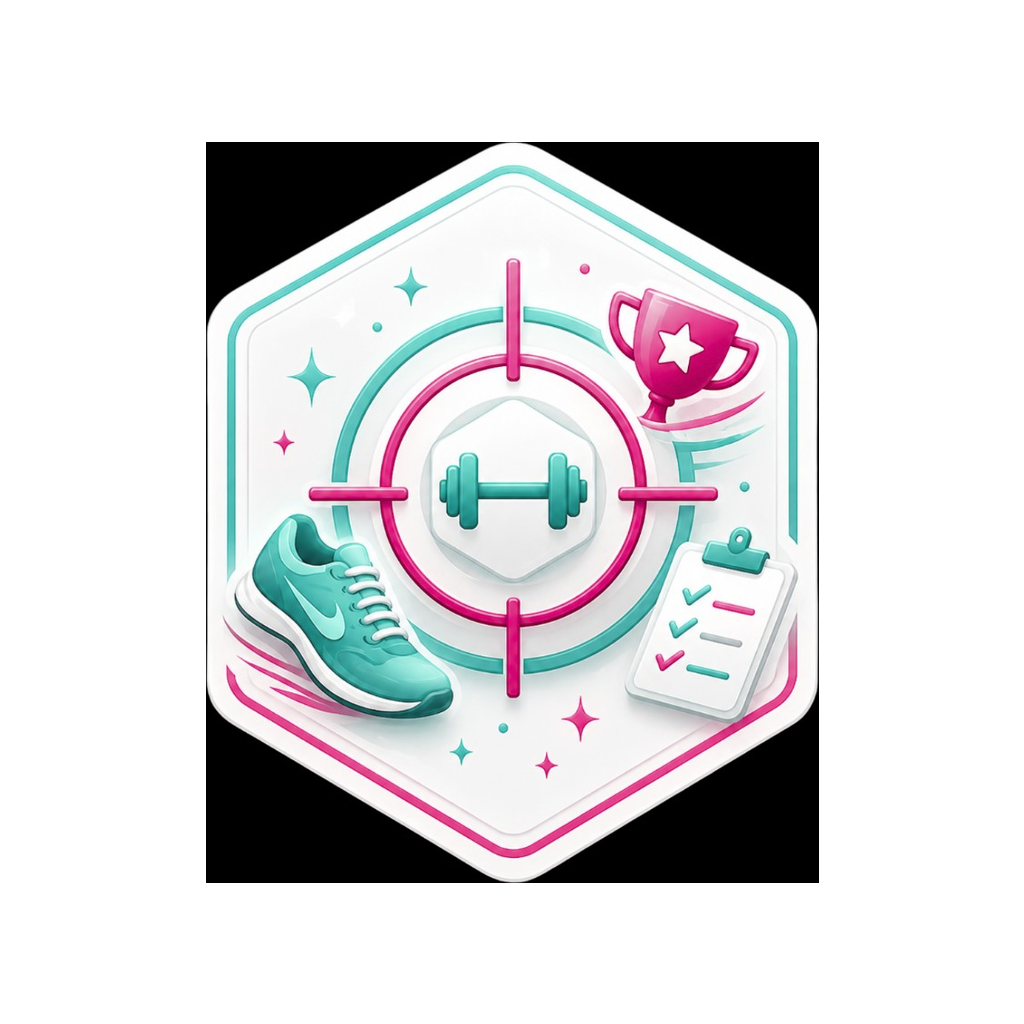
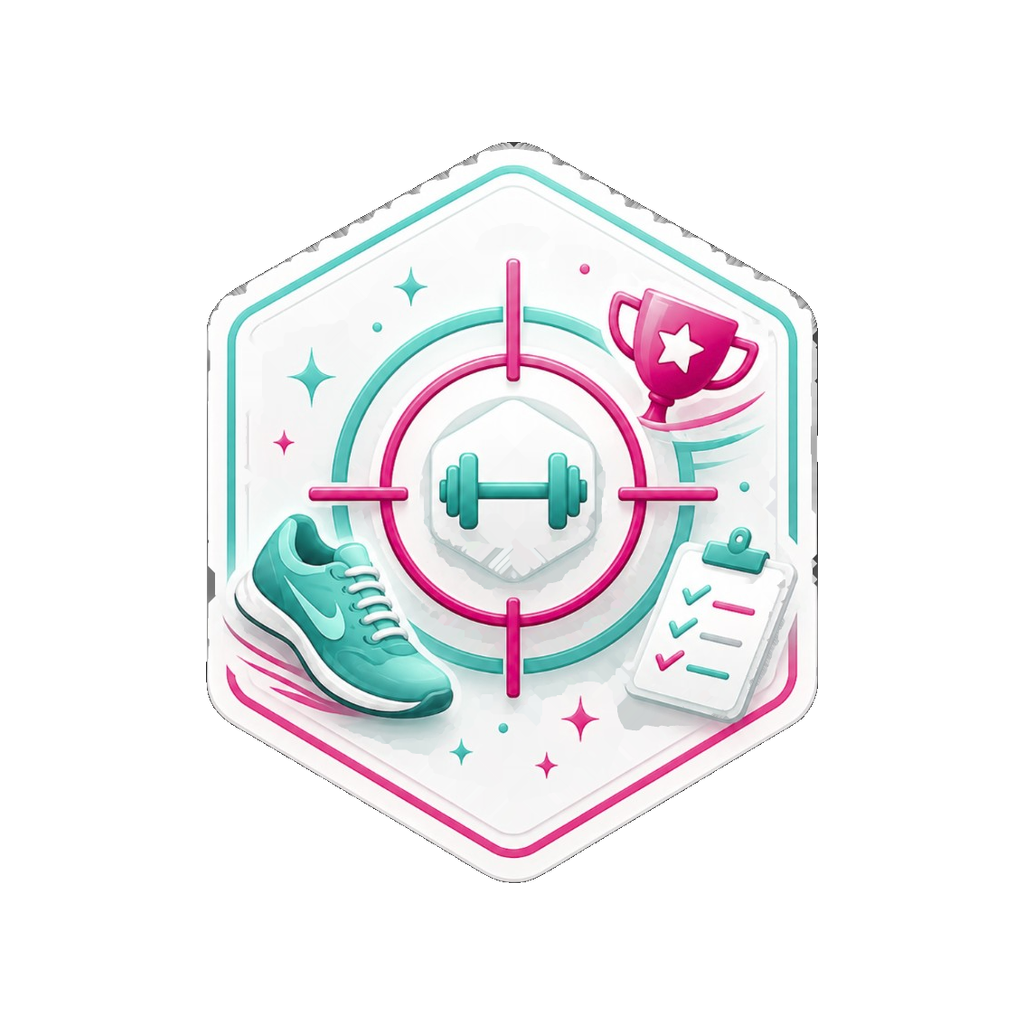
Update Streak and Øktjeger badges with transparent backgrounds
Replace artwork, strip black AI export backgrounds, and bump badge cache version.

diff --git a/src/app/badgeAssets.ts b/src/app/badgeAssets.ts
@@ -1,5 +1,5 @@
 /** Felles badge-bilder (PNG 1024×1024, normalisert visuell størrelse). */
-export const BADGE_ASSET_VERSION = "18";
+export const BADGE_ASSET_VERSION = "19";
 
 export function badgeAssetUrl(path: string): string {
   const base = path.split("?")[0] || path;
